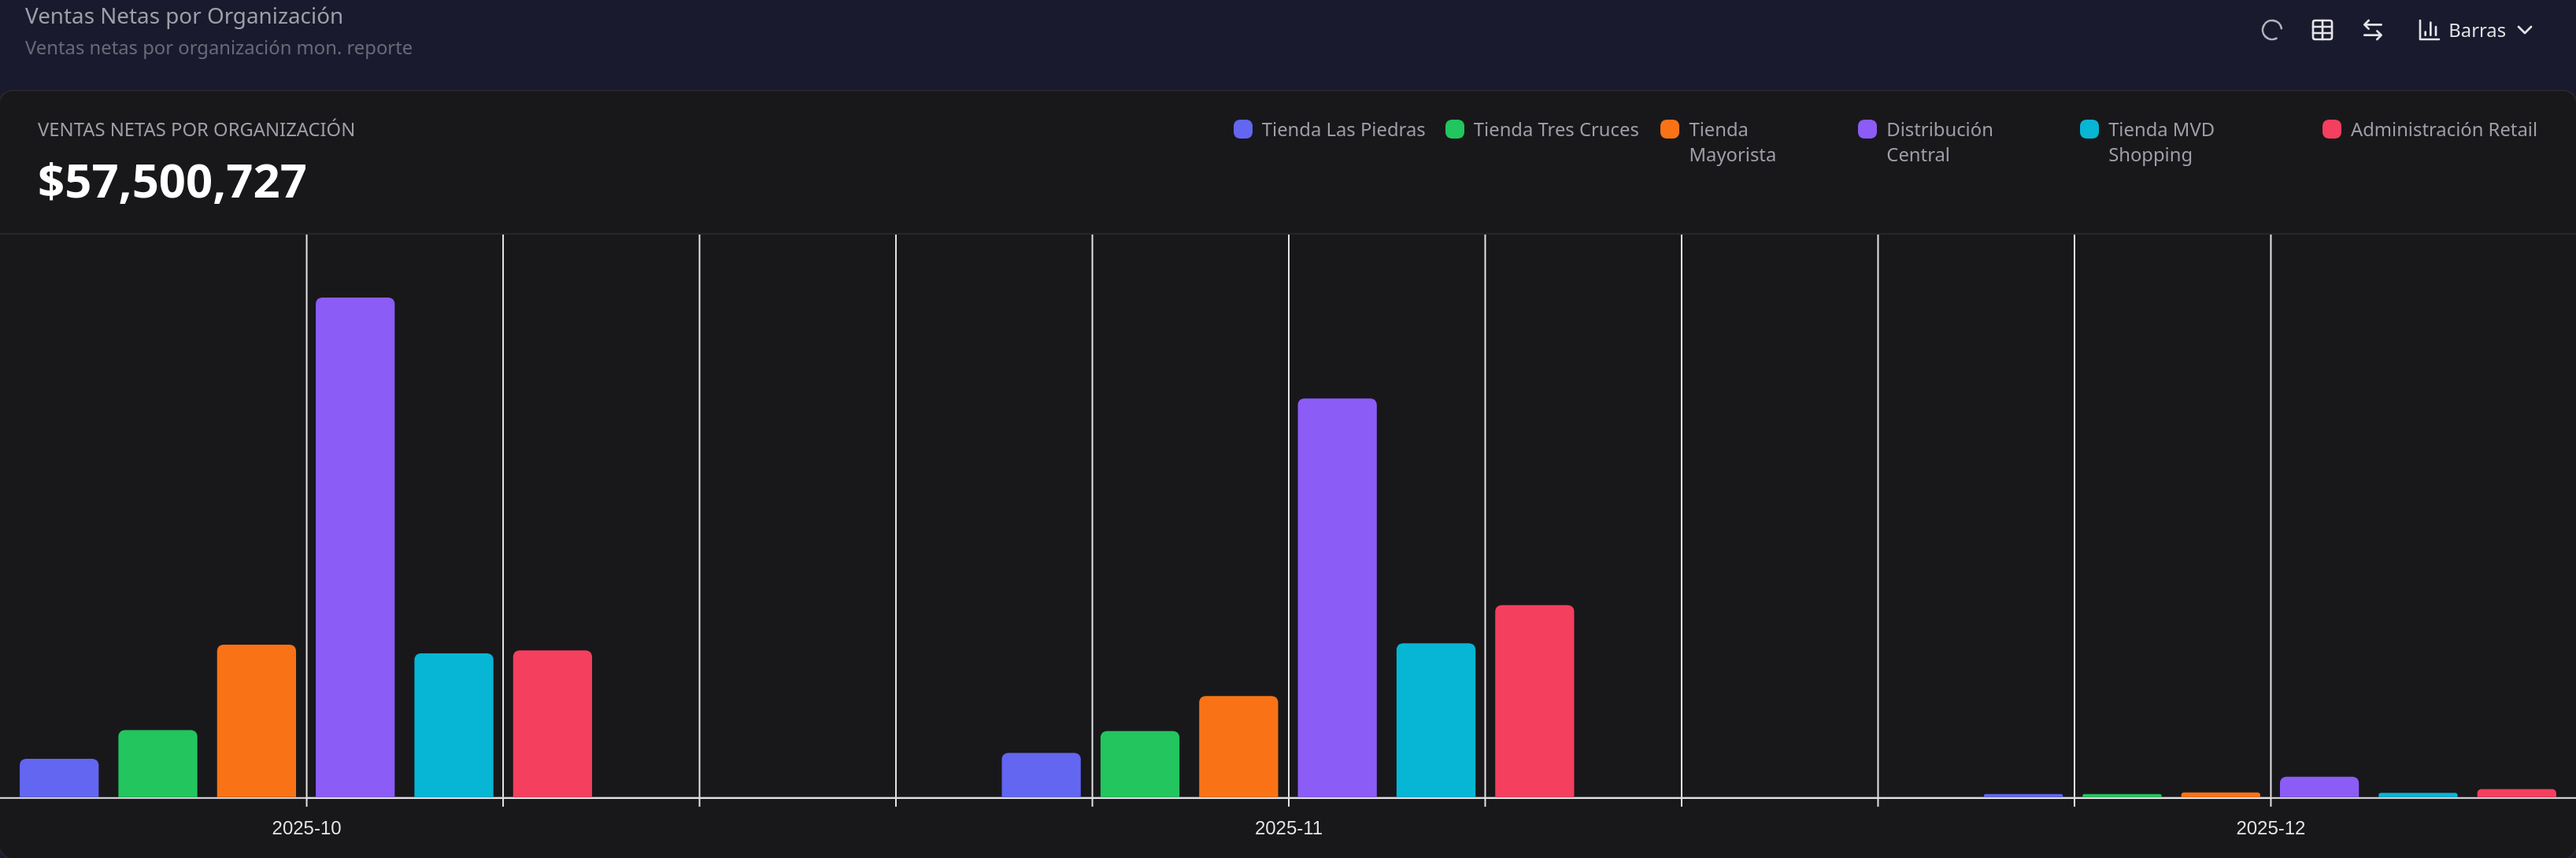
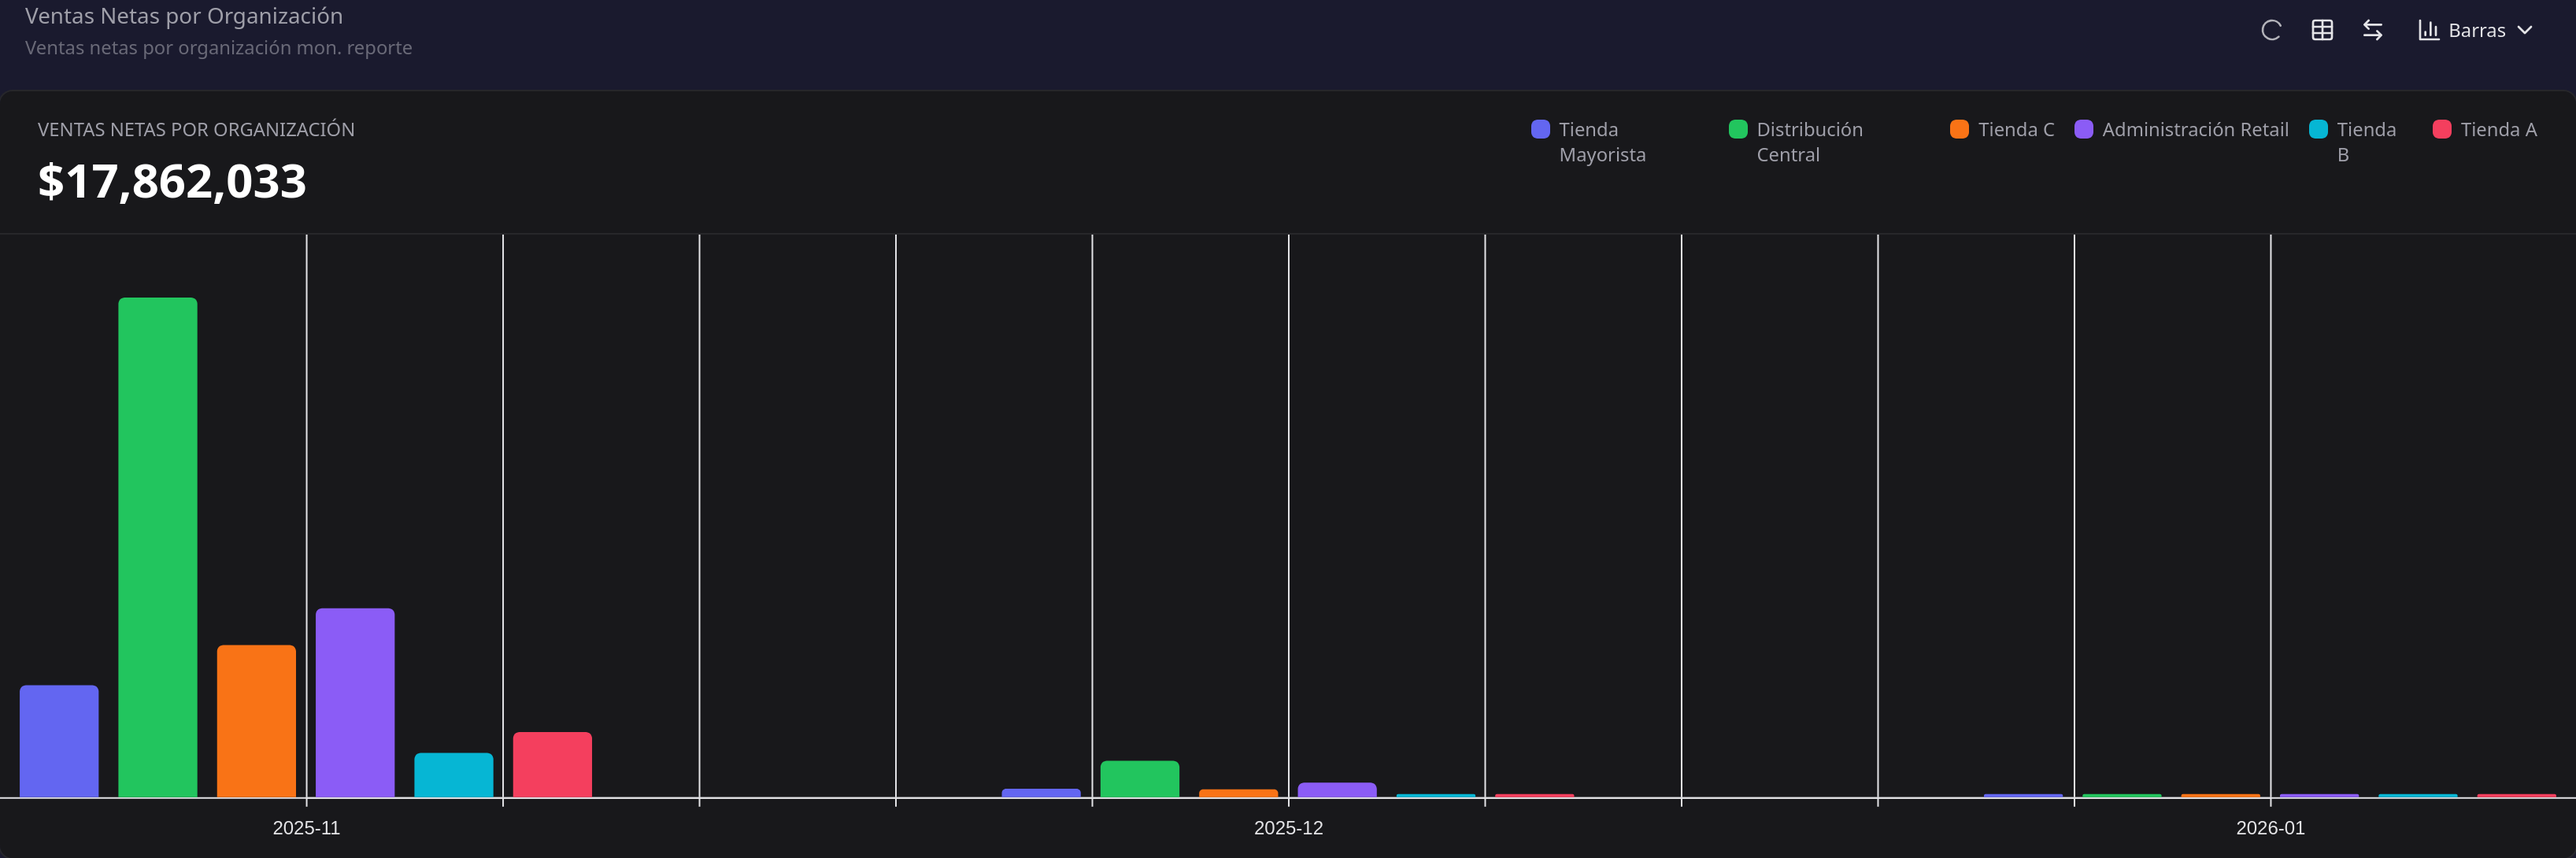
Se anonimiza los datos

diff --git a/docs/dashboards/venta-diaria-por-organizacion.md b/docs/dashboards/venta-diaria-por-organizacion.md
@@ -37,7 +37,7 @@ El dashboard muestra un indicador numérico con el total acumulado de ventas del
 En la parte superior se presenta:
 - **Título:** Venta Diaria por Organización
 - **Subtítulo:** Venta neta diaria por organización
-- **Indicador principal:** valor total acumulado del período consultado (ej. $7,985,900)
+- **Indicador principal:** valor total acumulado del período consultado (ej. $17,862,033)
 - **Leyenda:** listado de organizaciones con su color asignado
 
 En la esquina superior derecha se encuentran las opciones para cambiar la vista:
@@ -57,21 +57,21 @@ En la esquina superior izquierda se encuentra el [filtro de fechas](./#filtro-de
 
 La siguiente tabla muestra las ventas diarias por organización para un período de 10 días:
 
-| Fecha | Tienda Las Piedras | Tienda Tres Cruces | Tienda Mayorista | Distribución Central | Tienda MVD Shopping | Administración Retail | Total |
+| Fecha | Tienda Mayorista | Distribución Central | Tienda C | Administración Retail | Tienda B | Tienda A | Total |
 |-------|-------------------:|-------------------:|-----------------:|---------------------:|--------------------:|----------------------:|------:|
-| 2025-10-01 | 27,269.55 | 31,598.30 | 25,313.16 | 162,310.33 | 120,791.05 | 122,715.99 | 489,998.38 |
-| 2025-10-02 | 26,052.50 | 70,212.55 | 34,650.63 | 372,249.18 | 118,406.13 | 8,249.99 | 629,820.98 |
-| 2025-10-03 | 43,127.00 | 96,043.99 | 106,998.75 | 135,046.91 | 172,836.10 | 5,646.74 | 559,699.49 |
-| 2025-10-04 | 63,538.79 | 93,851.10 | 54,801.59 | 0.00 | 178,285.80 | 304.08 | 390,781.36 |
-| 2025-10-05 | 52,149.50 | 59,046.95 | 0.00 | 0.00 | 158,257.07 | 0.00 | 269,453.52 |
-| 2025-10-06 | 16,916.56 | 53,510.50 | 108,866.12 | 1,234,575.56 | 91,773.06 | 7,047.69 | 1,512,689.49 |
-| 2025-10-07 | 26,796.06 | 76,502.30 | 436,262.49 | 615,579.80 | 120,204.70 | 214,490.10 | 1,489,835.45 |
-| 2025-10-08 | 23,135.50 | 43,399.55 | 263,842.70 | 740,115.92 | 126,271.98 | 36,819.00 | 1,233,584.65 |
-| 2025-10-09 | 35,478.90 | 37,917.80 | 23,484.16 | 188,864.93 | 115,020.84 | 163,258.88 | 564,025.51 |
-| 2025-10-10 | 19,828.15 | 69,170.25 | 180,268.01 | 382,457.16 | 166,503.62 | 27,784.33 | 846,011.52 |
-| **Total** | **334,292.51** | **631,253.29** | **1,234,487.61** | **3,831,199.79** | **1,368,150.35** | **586,316.80** | **$7,985,900.35** |
+| 2025-11-14 | 181,763.85 | 1,586,590.32 | 117,699.71 | 171,414.35 | 81,536.06 | 58,291.66 | 2,197,295.95 |
+| 2025-11-15 | 17,667.14 | 0.00 | 185,298.77 | 241,220.74 | 46,896.23 | 86,124.47 | 577,207.35 |
+| 2025-11-16 | 0.00 | 0.00 | 134,329.70 | 190,832.91 | 55,958.71 | 69,127.08 | 450,248.40 |
+| 2025-11-17 | 212,364.60 | 763,209.31 | 102,927.38 | 168,972.36 | 14,036.58 | 49,531.95 | 1,311,042.18 |
+| 2025-11-18 | 148,254.62 | 554,344.74 | 102,458.05 | 171,314.47 | 33,292.23 | 41,252.86 | 1,050,916.97 |
+| 2025-11-19 | 85,863.08 | 598,967.44 | 85,630.51 | 153,590.52 | 35,653.50 | 57,658.14 | 1,017,363.19 |
+| 2025-11-20 | 34,076.92 | 975,014.68 | 103,334.46 | 180,958.86 | 37,678.50 | 46,514.73 | 1,377,578.15 |
+| 2025-11-21 | 270,033.08 | 299,657.60 | 142,490.14 | 324,399.92 | 39,224.34 | 56,103.50 | 1,131,908.58 |
+| 2025-11-22 | 16,354.32 | 0.00 | 223,032.08 | 0.00 | 49,208.00 | 87,877.69 | 376,472.09 |
+| 2025-11-23 | 0.00 | 0.00 | 126,629.39 | 171,604.04 | 53,018.49 | 52,032.75 | 403,284.67 |
+| **Total** | **966,377.61** | **4,777,784.09** | **1,323,830.19** | **1,774,308.17** | **446,502.64** | **604,514.83** | **$9,893,317.53** |
 
-En este ejemplo se observa que **Distribución Central** presenta la mayor variabilidad diaria, con picos superiores a $1.2M (6 de octubre) y días sin actividad (4 y 5 de octubre, correspondientes a fin de semana). Las tiendas físicas mantienen un flujo más estable, con **Tienda MVD Shopping** mostrando actividad consistente todos los días incluyendo fines de semana.
+En este ejemplo se observa que **Distribución Central** presenta la mayor variabilidad diaria, con picos superiores a $1.5M (14 de noviembre) y días sin actividad (15, 16, 22 y 23 de noviembre, correspondientes a fines de semana). Las tiendas físicas mantienen un flujo más estable, con **Tienda C** mostrando actividad consistente todos los días incluyendo fines de semana.
 
 ## Consideraciones importantes
 

diff --git a/docs/dashboards/venta-mensual-por-forma-de-pago.md b/docs/dashboards/venta-mensual-por-forma-de-pago.md
@@ -37,7 +37,7 @@ El dashboard muestra un indicador numérico con el total acumulado de ventas del
 En la parte superior se presenta:
 - **Título:** Venta Mensual por Forma de Pago
 - **Subtítulo:** Ventas sin imp. mensual por forma de pago
-- **Indicador principal:** valor total acumulado del período consultado (ej. $54,625,683)
+- **Indicador principal:** valor total acumulado del período consultado (ej. $16,802,396)
 - **Leyenda:** listado de formas de pago con su color asignado
 
 En la esquina superior derecha se encuentran las opciones para cambiar la vista:
@@ -55,25 +55,27 @@ En la esquina superior izquierda se encuentra el [filtro de fechas](./#filtro-de
 
 ## Datos de ejemplo
 
-La siguiente tabla muestra el total acumulado de ventas por forma de pago en el período consultado:
+La siguiente tabla muestra el total acumulado de ventas por forma de pago en el período consultado (3 meses):
 
 | Forma de Pago | Ventas ($) |
 |--------------|-----------:|
-| Sin Forma Pago | 36,680,445.28 |
-| Pleni1 SmartMVD | 5,478,680.63 |
-| Efectivo | 3,564,523.48 |
-| Pleni1 Ositos XXX | 3,139,979.10 |
-| Pleni1 OsitosMVD | 2,167,414.23 |
-| Pleni1 T00005 Ositos LP | 1,690,280.57 |
-| Fiserv | 640,379.91 |
-| Nota de Crédito (Devolución) | 384,090.83 |
-| Transferencia Bancaria / Giro - BROU | 286,988.90 |
-| Pleni1 Puerto Arenal | 250,234.47 |
-| Devolución PSIG | 236,354.78 |
-| Otros (10 formas de pago) | 106,311.31 |
-| **Total** | **$54,625,683.49** |
+| Sin Forma Pago | 11,597,660.71 |
+| Terminal POS 8 | 1,736,236.67 |
+| Efectivo | 995,743.32 |
+| Terminal POS 10 | 887,898.18 |
+| Terminal POS 7 | 637,124.18 |
+| Terminal POS 9 | 519,772.00 |
+| Nota de Crédito (Devolución) | 119,510.40 |
+| Fiserv | 94,316.44 |
+| Transferencia Bancaria / Giro - BROU | 84,700.50 |
+| Terminal POS 6 | 63,241.84 |
+| Devolución | 35,156.67 |
+| Terminal POS 5 | 18,250.00 |
+| Vale Obsequio | 7,987.00 |
+| Mercado Pago | 4,798.00 |
+| **Total** | **$16,802,395.91** |
 
-En este ejemplo se observa que **Sin Forma Pago** concentra el 67% de las ventas. Entre los métodos identificados, las plataformas **Pleni1** en sus diferentes terminales representan el medio de pago principal ($12.7M en total, 23% de las ventas), seguido por **Efectivo** con $3.6M (7%) y **Fiserv** con $640K.
+En este ejemplo se observa que **Sin Forma Pago** concentra el 69% de las ventas. Entre los métodos identificados, las **Terminales POS** en sus diferentes configuraciones representan el medio de pago principal ($3.9M en total, 23% de las ventas), seguido por **Efectivo** con $996K (6%) y **Fiserv** con $94K.
 
 ## Consideraciones importantes
 

diff --git a/docs/dashboards/venta-diaria-por-forma-de-pago.md b/docs/dashboards/venta-diaria-por-forma-de-pago.md
@@ -37,7 +37,7 @@ El dashboard muestra un indicador numérico con el total acumulado de ventas del
 En la parte superior se presenta:
 - **Título:** Venta Diaria por Forma de Pago
 - **Subtítulo:** Ventas sin imp. diarias por forma de pago
-- **Indicador principal:** valor total acumulado del período consultado (ej. $1,622,686)
+- **Indicador principal:** valor total acumulado del período consultado (ej. $794,567)
 - **Leyenda:** listado de formas de pago con su color asignado
 
 En la esquina superior derecha se encuentran las opciones para cambiar la vista:
@@ -55,27 +55,24 @@ En la esquina superior izquierda se encuentra el [filtro de fechas](./#filtro-de
 
 ## Datos de ejemplo
 
-La siguiente tabla muestra el total acumulado de ventas por forma de pago en el período consultado (3 días):
+La siguiente tabla muestra el total acumulado de ventas por forma de pago en el período consultado (1 día):
 
 | Forma de Pago | Ventas ($) |
 |--------------|-----------:|
-| Sin Forma Pago | 812,921.65 |
-| Pleni1 SmartMVD | 277,371.38 |
-| Pleni1 Ositos XXX | 157,439.79 |
-| Efectivo | 148,576.19 |
-| Pleni1 OsitosMVD | 85,469.15 |
-| Pleni1 T00005 Ositos LP | 71,467.55 |
-| Fiserv | 36,755.65 |
-| Devolución PSIG | 10,353.00 |
-| Pleni1 Puerto Arenal | 8,980.00 |
-| Soy Santander | 3,299.50 |
-| Transferencia Bancaria / Giro - BROU | 3,171.66 |
-| Fisrerv - Mastercard | 3,010.50 |
-| Mercado Pago | 1,970.00 |
-| Nota de Crédito (Devolución) | 1,900.00 |
-| **Total** | **$1,622,686.02** |
+| Sin Forma Pago | 514,613.75 |
+| Terminal POS 8 | 109,159.92 |
+| Terminal POS 10 | 63,017.75 |
+| Efectivo | 49,257.72 |
+| Terminal POS 7 | 35,459.06 |
+| Terminal POS 9 | 16,747.30 |
+| Fiserv | 2,877.50 |
+| Terminal POS 6 | 2,120.38 |
+| Devolución | 799.00 |
+| Nota de Crédito (Devolución) | 490.00 |
+| Terminal POS 5 | 25.00 |
+| **Total** | **$794,567.38** |
 
-En este ejemplo se observa que **Sin Forma Pago** concentra el 50% de las ventas, correspondiente a facturación que no tiene un pago asociado con forma de pago específica. Entre los métodos identificados, las plataformas **Pleni1** en sus diferentes terminales representan el medio de pago más utilizado, seguido por **Efectivo** con $148K.
+En este ejemplo se observa que **Sin Forma Pago** concentra el 65% de las ventas, correspondiente a facturación que no tiene un pago asociado con forma de pago específica. Entre los métodos identificados, las **Terminales POS** en sus diferentes configuraciones representan el medio de pago más utilizado, seguido por **Efectivo** con $49K.
 
 ## Consideraciones importantes
 

diff --git a/docs/dashboards/ventas-netas-por-vendedor.md b/docs/dashboards/ventas-netas-por-vendedor.md
@@ -37,7 +37,7 @@ El dashboard muestra un indicador numérico con el total acumulado de ventas net
 En la parte superior se presenta:
 - **Título:** Ventas Netas por Vendedor
 - **Subtítulo:** Ventas netas por vendedor en moneda de reporte
-- **Indicador principal:** valor total acumulado del período consultado (ej. $57,525,127)
+- **Indicador principal:** valor total acumulado del período consultado (ej. $57,500,727)
 - **Leyenda:** listado de vendedores con su color asignado
 
 En la esquina superior derecha se encuentran las opciones para cambiar la vista:
@@ -69,21 +69,21 @@ La siguiente tabla muestra el resumen de los 10 vendedores con mayor volumen de 
 | Vendedor_1805 | 1,510,538.59 |
 | Vendedor_109 | 1,306,035.58 |
 | Vendedor_1804 | 1,185,877.00 |
-| Otros (38 vendedores) | 13,281,655.41 |
-| **Total** | **57,525,127.43** |
+| Otros (36 vendedores) | 12,257,255.41 |
+| **Total** | **$57,500,727.43** |
 
 El desglose mensual de los principales vendedores es el siguiente:
 
-| Vendedor | 2025-09 | 2025-10 | 2025-11 | 2025-12 | 2026-01 |
-|----------|---------|---------|---------|---------|---------|
-| Vendedor_84 | 0 | 5,665,929.38 | 4,720,545.83 | 210,926.03 | 0 |
-| Vendedor_103 | 0 | 3,970,434.66 | 4,883,343.23 | 364,614.76 | 0 |
-| Vendedor_104 | 0 | 3,414,540.32 | 4,758,333.90 | 164,397.56 | 0 |
-| Vendedor_1820 | 0 | 2,716,471.33 | 1,420,563.57 | 54,228.65 | 0 |
-| Vendedor_129 | 0 | 1,984,110.77 | 1,757,408.22 | 61,700.30 | 0 |
-| Vendedor_100 | 0 | 3,032,911.95 | 345,262.14 | 0 | 0 |
+| Vendedor | 2025-10 | 2025-11 | 2025-12 |
+|----------|---------|---------|---------|
+| Vendedor_84 | 5,665,929.38 | 4,720,545.83 | 210,926.03 |
+| Vendedor_103 | 3,970,434.66 | 4,883,343.23 | 364,614.76 |
+| Vendedor_104 | 3,414,540.32 | 4,758,333.90 | 164,397.56 |
+| Vendedor_1820 | 2,716,471.33 | 1,420,563.57 | 54,228.65 |
+| Vendedor_129 | 1,984,110.77 | 1,757,408.22 | 61,700.30 |
+| Vendedor_100 | 3,032,911.95 | 345,262.14 | 0.00 |
 
-En este ejemplo se observa que los meses de octubre y noviembre de 2025 concentran la actividad de ventas para todos los vendedores, mientras que septiembre no registra actividad y enero de 2026 presenta valores mínimos.
+En este ejemplo se observa que los meses de octubre y noviembre de 2025 concentran la mayor actividad de ventas para todos los vendedores, mientras que diciembre presenta una caída significativa en el volumen de todos los agentes comerciales.
 
 ## Consideraciones importantes
 

diff --git a/docs/dashboards/venta-diaria-por-terminal-pdv.md b/docs/dashboards/venta-diaria-por-terminal-pdv.md
@@ -37,7 +37,7 @@ El dashboard muestra un indicador numérico con el total acumulado de ventas del
 En la parte superior se presenta:
 - **Título:** Venta Diaria por Terminal PDV
 - **Subtítulo:** Venta diaria por terminal PDV
-- **Indicador principal:** valor total acumulado del período consultado (ej. $57,525,127)
+- **Indicador principal:** valor total acumulado del período consultado (ej. $5,342,279)
 - **Leyenda:** listado de terminales PDV con su color asignado
 
 En la esquina superior derecha se encuentran las opciones para cambiar la vista:
@@ -55,20 +55,19 @@ En la esquina superior izquierda se encuentra el [filtro de fechas](./#filtro-de
 
 ## Datos de ejemplo
 
-La siguiente tabla muestra el total acumulado de ventas por terminal PDV en el período consultado (64 días):
+La siguiente tabla muestra el total acumulado de ventas por terminal PDV en el período consultado (7 días):
 
 | Terminal PDV | Ventas Netas ($) |
 |-------------|-----------------:|
-| Sin Terminal | 41,910,263.89 |
-| Smart MSC Caja 1 | 6,055,190.20 |
-| Ositos y Cia XXX Caja 1 | 3,744,898.84 |
-| Ositos y Cia MSC Caja 1 | 2,403,780.55 |
-| Ositos y Cia LP Caja 1 | 2,345,803.27 |
-| Puerto Arenal Caja 1 | 985,715.68 |
-| Punto de Venta Service | 79,475.00 |
-| **Total** | **$57,525,127.43** |
+| Sin Terminal | 3,496,416.44 |
+| Sucursal C Caja 1 | 725,741.98 |
+| Sucursal E Caja 1 | 478,753.69 |
+| Sucursal D Caja 1 | 255,849.96 |
+| Sucursal A Caja 1 | 232,639.93 |
+| Sucursal B Caja 1 | 152,876.67 |
+| **Total** | **$5,342,278.67** |
 
-En este ejemplo se observa que **Sin Terminal** concentra el 73% de las ventas, correspondiente a la facturación que no está asociada a un terminal PDV específico. Entre los terminales identificados, **Smart MSC Caja 1** lidera con $6.1M, seguido por **Ositos y Cia XXX Caja 1** con $3.7M.
+En este ejemplo se observa que **Sin Terminal** concentra el 65% de las ventas, correspondiente a la facturación que no está asociada a un terminal PDV específico. Entre los terminales identificados, **Sucursal C Caja 1** lidera con $726K, seguido por **Sucursal E Caja 1** con $479K.
 
 ## Consideraciones importantes
 

diff --git a/docs/dashboards/ventas-netas-por-terminal-pdv.md b/docs/dashboards/ventas-netas-por-terminal-pdv.md
@@ -37,7 +37,7 @@ El dashboard muestra un indicador numérico con el total acumulado de ventas net
 En la parte superior se presenta:
 - **Título:** Ventas Netas por Terminal PDV
 - **Subtítulo:** Ventas netas por terminal PDV mon. reporte
-- **Indicador principal:** valor total acumulado del período consultado (ej. $57,500,727)
+- **Indicador principal:** valor total acumulado del período consultado (ej. $17,862,033)
 - **Leyenda:** listado de terminales con su color asignado
 
 En la esquina superior derecha se encuentran las opciones para cambiar la vista:
@@ -57,16 +57,16 @@ En la esquina superior izquierda se encuentra el [filtro de fechas](./#filtro-de
 
 | Terminal PDV | Ventas Netas ($) |
 |-------------|-----------------|
-| Sin Terminal | 41,885,863.89 |
-| Smart MSC Caja 1 | 6,055,190.20 |
-| Ositos y Cia XXX Caja 1 | 3,744,898.84 |
-| Ositos y Cia MSC Caja 1 | 2,403,780.55 |
-| Ositos y Cia LP Caja 1 | 2,345,803.27 |
-| Puerto Arenal Caja 1 | 985,715.68 |
-| Punto de Venta Service | 79,475.00 |
-| **Total** | **57,500,727.43** |
+| Sin Terminal | 13,298,770.89 |
+| Sucursal C Caja 1 | 1,811,771.30 |
+| Sucursal E Caja 1 | 1,057,273.23 |
+| Sucursal D Caja 1 | 719,018.06 |
+| Sucursal A Caja 1 | 695,606.18 |
+| Sucursal B Caja 1 | 254,842.85 |
+| Punto de Venta Service | 24,750.00 |
+| **Total** | **$17,862,032.51** |
 
-En este ejemplo se observa que **Sin Terminal** concentra el 73% de las ventas, correspondiente a la facturación que no se realiza desde un punto de venta. Entre los terminales activos, **Smart MSC Caja 1** lidera con $6M, seguido por las cajas de **Ositos y Cia** en sus diferentes locales.
+En este ejemplo se observa que **Sin Terminal** concentra el 74% de las ventas, correspondiente a la facturación que no se realiza desde un punto de venta. Entre los terminales activos, **Sucursal C Caja 1** lidera con $1.8M, seguido por **Sucursal E Caja 1** con $1.1M.
 
 ## Consideraciones importantes
 

diff --git a/docs/dashboards/ventas-netas-por-organizacion.md b/docs/dashboards/ventas-netas-por-organizacion.md
@@ -37,7 +37,7 @@ El dashboard muestra un indicador numérico con el total acumulado de ventas net
 En la parte superior se presenta:
 - **Título:** Ventas Netas por Organización
 - **Subtítulo:** Ventas netas por organización mon. reporte
-- **Indicador principal:** valor total acumulado del período consultado (ej. $57,500,727)
+- **Indicador principal:** valor total acumulado del período consultado (ej. $17,862,033)
 - **Leyenda:** listado de organizaciones con su color asignado
 
 En la esquina superior derecha se encuentran las opciones para cambiar la vista:
@@ -57,15 +57,15 @@ En la esquina superior izquierda se encuentra el [filtro de fechas](./#filtro-de
 
 | Organización | Ventas Netas ($) |
 |-------------|-----------------:|
-| Distribución Central | 25,834,490.29 |
-| Administración Retail | 9,759,834.38 |
-| Tienda MVD Shopping | 8,502,259.77 |
-| Tienda Mayorista | 7,271,537.41 |
-| Tienda Tres Cruces | 3,786,802.31 |
-| Tienda Las Piedras | 2,345,803.27 |
-| **Total** | **57,500,727.43** |
+| Distribución Central | 8,435,533.40 |
+| Administración Retail | 3,226,998.26 |
+| Tienda C | 2,515,377.59 |
+| Tienda Mayorista | 1,897,849.97 |
+| Tienda A | 1,067,255.23 |
+| Tienda B | 719,018.06 |
+| **Total** | **$17,862,032.51** |
 
-En este ejemplo se observa que **Distribución Central** concentra el 45% de las ventas totales, seguida por **Administración Retail** con el 17% y **Tienda MVD Shopping** con el 15%. Las tiendas físicas (Las Piedras y Tres Cruces) representan una menor proporción del volumen total.
+En este ejemplo se observa que **Distribución Central** concentra el 47% de las ventas totales, seguida por **Administración Retail** con el 18% y **Tienda C** con el 14%. Las tiendas físicas (Tienda A y Tienda B) representan una menor proporción del volumen total.
 
 ## Consideraciones importantes
 

diff --git a/docs/dashboards/ventas-netas-por-origen-orden.md b/docs/dashboards/ventas-netas-por-origen-orden.md
@@ -58,13 +58,13 @@ En la esquina superior izquierda se encuentra el [filtro de fechas](./#filtro-de
 | Origen de Orden | Ventas Netas ($) |
 |----------------|-----------------|
 | Sin Origen | 56,403,002.18 |
-| MercadoLibre Ositos y Cia | 355,926.79 |
-| Web Ositos y Cia | 314,929.38 |
-| MercadoLibre Smart | 181,436.17 |
-| Web Smart | 147,255.80 |
-| MercadoLibre Kassel | 92,504.03 |
+| MercadoLibre | 355,926.79 |
+| Web A | 314,929.38 |
+| MercadoLibre_2 | 181,436.17 |
+| Web B | 147,255.80 |
+| Web D | 92,504.03 |
 | Punto de Venta | 5,673.08 |
-| **Total** | **57,500,727.43** |
+| **Total** | **$57,500,727.43** |
 
 En este ejemplo se observa que **Sin Origen** concentra el 98% de las ventas, correspondiente a facturación cuya orden de venta no tiene un canal de origen asignado. Entre los canales identificados, los marketplaces de **MercadoLibre** y las tiendas **Web** representan los principales canales digitales.
 

diff --git a/docs/dashboards/ventas-netas-por-categoria-producto-y-origen.md b/docs/dashboards/ventas-netas-por-categoria-producto-y-origen.md
@@ -74,7 +74,7 @@ La siguiente tabla muestra las ventas netas por categoría de producto, con el d
 | SERVICIO | -427,000.00 | 0.00 | -427,000.00 |
 | **Total** | **43,516,955.37** | **910,959.10** | **$44,427,914.47** |
 
-Los canales digitales identificados incluyen: **MercadoLibre Ositos y Cia** ($291,932), **Web Ositos y Cia** ($265,911), **MercadoLibre Smart** ($148,718), **Web Smart** ($123,925), **MercadoLibre Kassel** ($75,823) y **Punto de Venta** ($4,650).
+Los canales digitales identificados incluyen: **MercadoLibre** ($291,932), **Web A** ($265,911), **MercadoLibre_2** ($148,718), **Web B** ($123,925), **Web D** ($75,823) y **Punto de Venta** ($4,650).
 
 En este ejemplo se observa que **Sin Origen** concentra el 98% de las ventas en todas las categorías. Entre los canales digitales, **JUGUETES** es la categoría con mayor participación en canales identificados ($446K).
 
